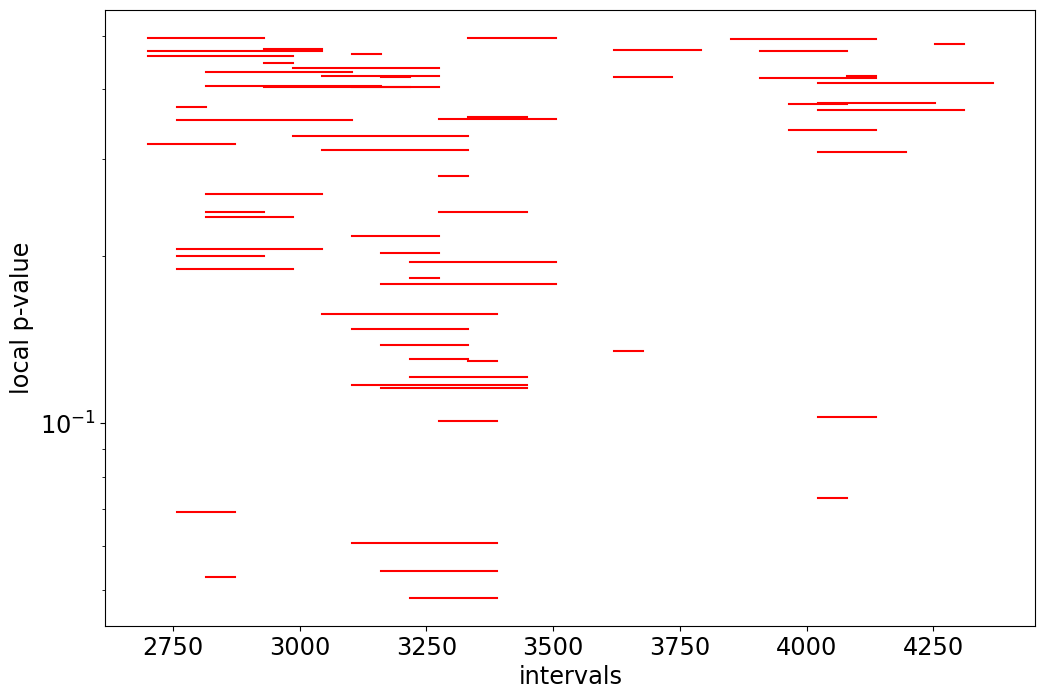
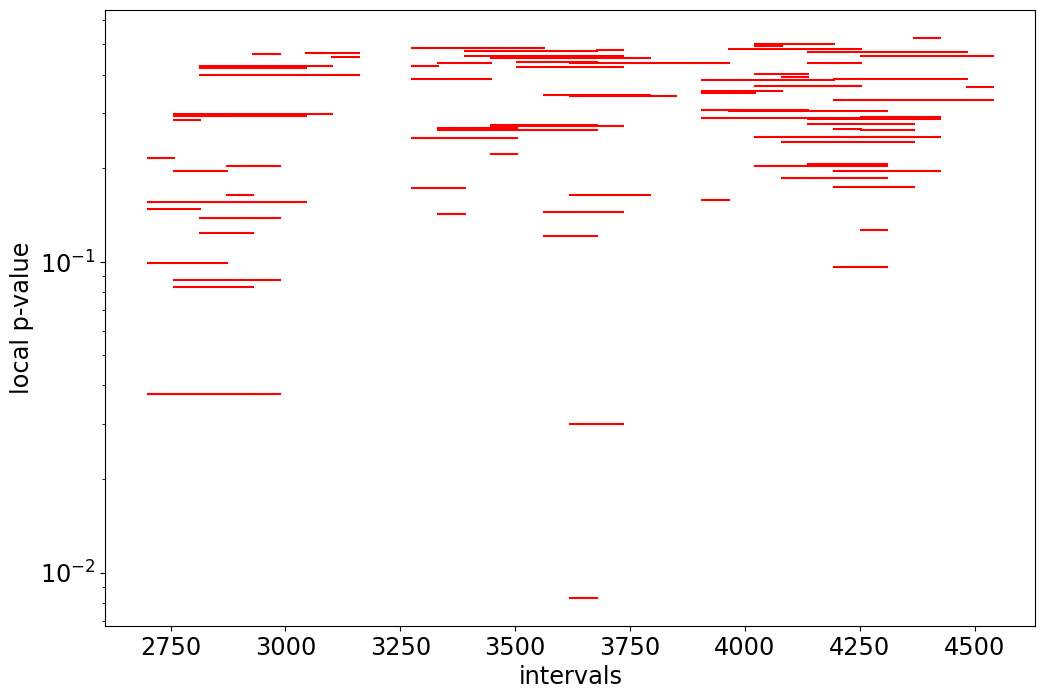
Applying BumpHunter with sig1 insertion and percentage 0.005

diff --git a/apply.py b/apply.py
@@ -119,7 +119,7 @@ with torch.no_grad(): # no need to compute gradients here
 loss_sample = pd.DataFrame(loss(data, prediction).numpy(), columns=selection).mean(axis=1)
 
 # Do the selection at Nth percentile
-percentile = 98
+percentile = 95
 cut = np.percentile(loss_sample, percentile)
 mjj_cut = mjj[loss_sample > cut]
 print(f'    post cut stat : {mjj_cut.size}')
@@ -138,11 +138,11 @@ print(f'    new S/B : {100 * sbr:.2f}%')
 
 BH = BumpHunter1D(
     rang=scope,
-    width_min = 1,
-    width_max = 6,
+    width_min = 3,
+    width_max = 8,
     width_step = 1,
     scan_step = 1,
-    npe = 1000,
+    npe = 40000,
     bins = 40,
     nworker = 4,
     use_sideband = True,
